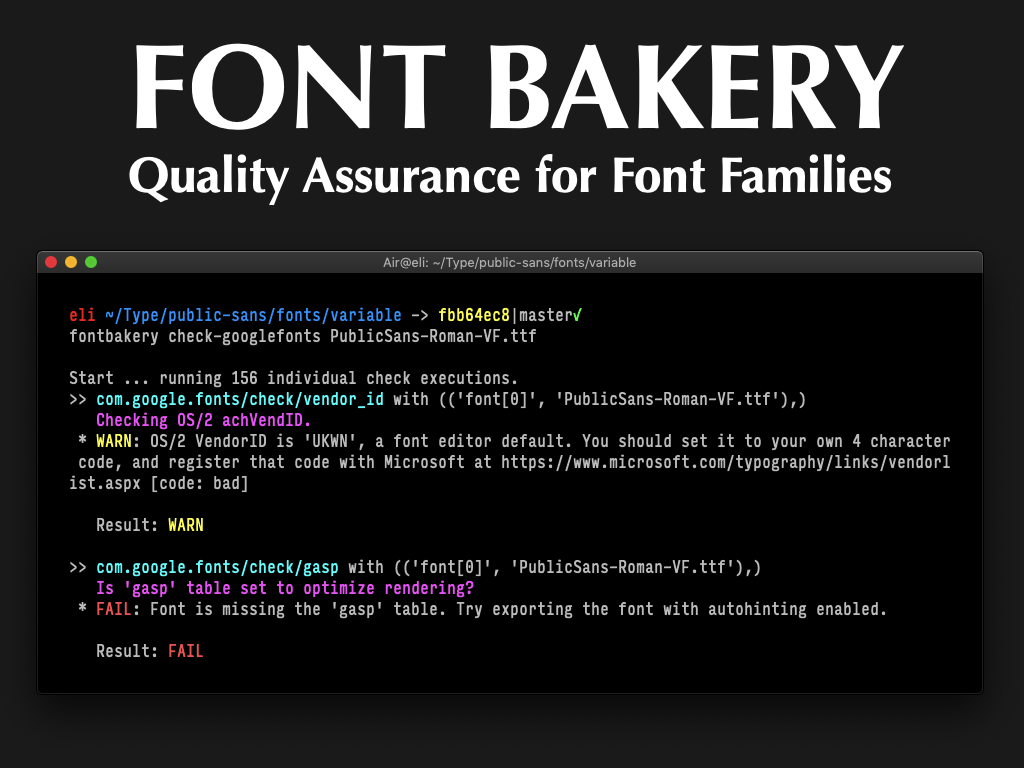
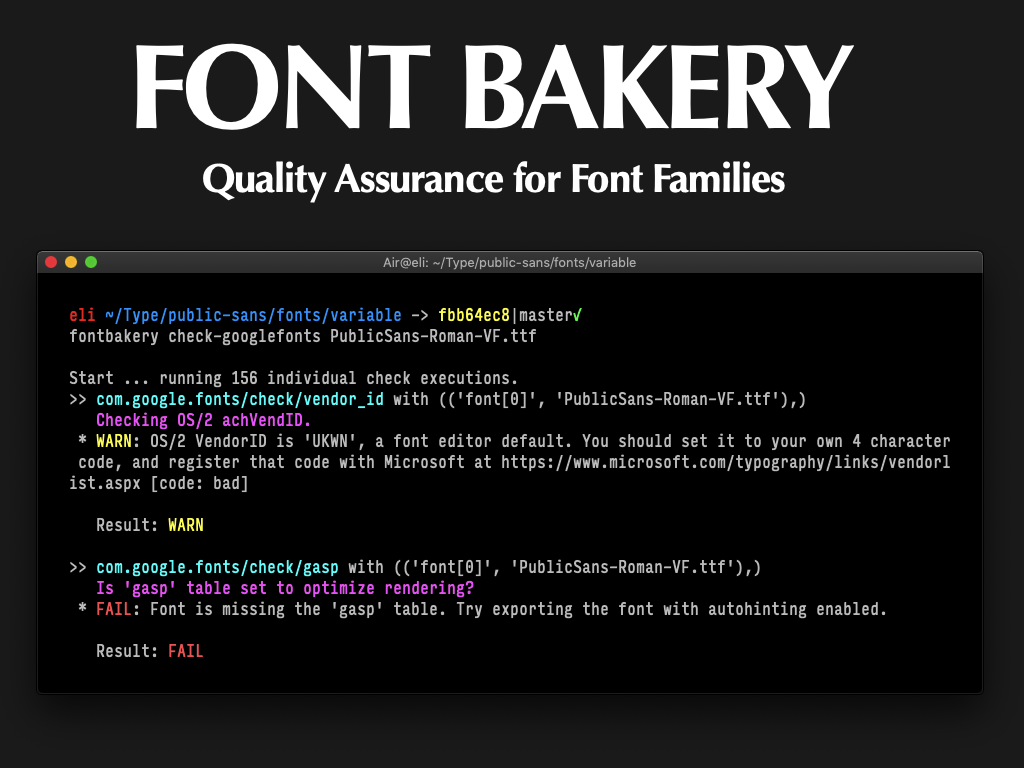
LGM work

Changed region(s): [[0.125, 0.0312, 0.875, 0.25]]

diff --git a/fontbakery/source/fb-lgm.py b/fontbakery/source/fb-lgm.py
@@ -36,17 +36,40 @@ image("source/images/cli-01.png", (-19, 0), alpha=1)
 fill(1)
 stroke(None)
 fontSize(120)
-#tracking(-4.5)
+tracking(-5)
 text("FONT BAKERY", M+96, M*20)
-fontSize(49.5)
-#tracking(-2.5)
-text("Quality Assurance for Font Families", M+96, M*18)
+fontSize(40)
+tracking(-1)
+text("Quality Assurance for Font Families", M+170, M*18)
 saveImage("fontbakery-00.png")
 
 # PAGE ONE #####################################################################
 newPage(W, H)
-grid() # Toggle for grid view
-edge() # Toggle for safe area
+fill(0.1)
+rect(0, 0, W, H)
+#grid() # Toggle for grid view
+#edge() # Toggle for safe area
+#text("Foo Bard", M, M*16)
+image("source/images/cli-03.png", (65, -10), alpha=1)
+saveImage("fontbakery-01.png")
+
+# PAGE TWO #####################################################################
+newPage(W, H)
+fill(0.1)
+rect(0, 0, W, H)
+#grid() # Toggle for grid view
+#edge() # Toggle for safe area
+text("Foo Bard", M, M*16)
+image("source/images/web-01.png", (-15, -30), alpha=1)
+saveImage("fontbakery-02.png")
+
+# PAGE THREE ###################################################################
+newPage(W, H)
+fill(0.1)
+rect(0, 0, W, H)
+#grid() # Toggle for grid view
+#edge() # Toggle for safe area
 text("Foo Bard", M, M*16)
 image("source/images/cli-02.png", (-19, 0), alpha=1)
-saveImage("fontbakery-01.png")
+saveImage("fontbakery-03.png")
+
